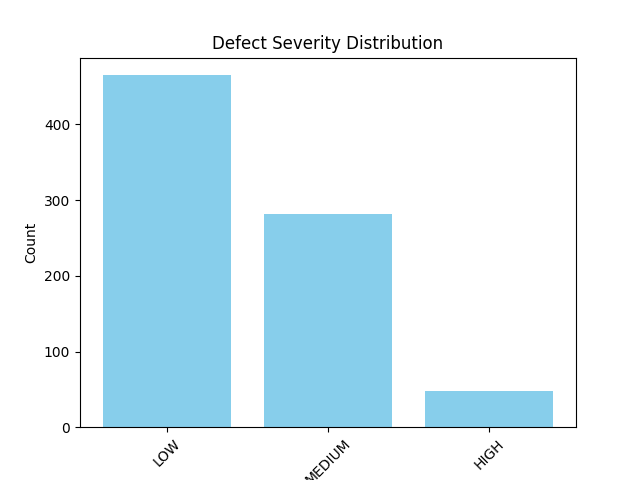
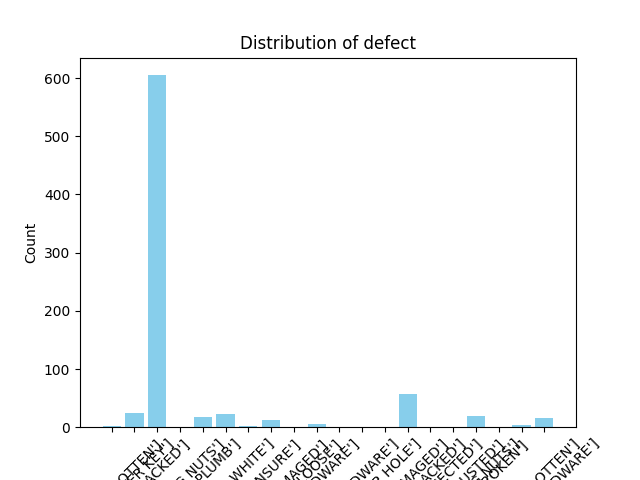
updated

diff --git a/CsvReaderApp/templates/CsvReaderApp/csv_upload.html b/CsvReaderApp/templates/CsvReaderApp/csv_upload.html
@@ -2,15 +2,13 @@
 <html lang="en">
 <head>
     <meta charset="UTF-8">
-    <meta name="viewport" content="width=device-width, initial-scale=1.0">
     <title>Upload CSV File</title>
 </head>
 <body>
-    <h2>Upload CSV File</h2>
-    <form method="POST" enctype="multipart/form-data">
+    <form action="{% url 'upload_file' %}" method="post" enctype="multipart/form-data">
         {% csrf_token %}
-        <input type="file" name="csv_file">
-        <button type="submit">Upload</button>
+        <input type="file" name="csv_file" required>
+        <button type="submit">Upload File</button>
     </form>
 </body>
 </html>

diff --git a/CsvReaderApp/templates/CsvReaderApp/column_select.html b/CsvReaderApp/templates/CsvReaderApp/column_select.html
@@ -8,6 +8,7 @@
     <form action="{% url 'generate_charts' %}" method="post">
         {% csrf_token %}
         <input type="hidden" name="file_name" value="{{ file_name }}">
+        <h1>Select a column to analyze:</h1>
         {% for column in columns %}
             <label>
                 <input type="radio" name="selected_column" value="{{ column }}" required>

diff --git a/CsvReaderApp/views.py b/CsvReaderApp/views.py
@@ -2,52 +2,84 @@ import csv
 import os
 import matplotlib.pyplot as plt
 from collections import Counter
-from django.shortcuts import render
+from django.shortcuts import render, redirect
 from django.conf import settings
+from django.urls import reverse
 import matplotlib
 matplotlib.use('Agg')
+from django.http import HttpResponse
 
-def generate_charts(request):
-    if request.method == 'POST' and request.FILES['csv_file']:
+def upload_file(request):
+    if request.method == 'POST' and 'csv_file' in request.FILES:
         uploaded_file = request.FILES['csv_file']
         file_path = os.path.join(settings.MEDIA_ROOT, uploaded_file.name)
-        with open(file_path, 'wb+') as destination:
-            for chunk in uploaded_file.chunks():
-                destination.write(chunk)
-
-        defect_counts = read_csv_and_process(file_path)
-        bar_chart_url = generate_bar_chart(defect_counts, 'bar_chart.png')
-
-        context = {'bar_chart_url': bar_chart_url}
-        return render(request, 'CsvReaderApp/csv_data.html', context)
+        try:
+            with open(file_path, 'wb+') as destination:
+                for chunk in uploaded_file.chunks():
+                    destination.write(chunk)
+            
+            # Check if the file was saved successfully by verifying its existence
+            if os.path.exists(file_path):
+                # Redirect to column selection with the filename as a parameter
+                return redirect(reverse('select_column') + f'?file={uploaded_file.name}')
+            else:
+                return HttpResponse("Failed to save the file.", status=500)
+        except IOError as e:
+            return HttpResponse(f"Error saving file: {e}", status=500)
     else:
         return render(request, 'CsvReaderApp/csv_upload.html')
 
-def read_csv_and_process(file_path):
+def select_column(request):
+    file_name = request.GET.get('file')
+    file_path = os.path.join(settings.MEDIA_ROOT, file_name)
+    columns = get_csv_columns(file_path)
+    return render(request, 'CsvReaderApp/column_select.html', {'columns': columns, 'file_name': file_name})
+
+def get_csv_columns(file_path):
+    with open(file_path, 'r') as file:
+        reader = csv.reader(file)
+        try:
+            columns = next(reader)
+        except StopIteration:
+            columns = []  # Handle empty files
+    return columns
+
+def generate_charts(request):
+    if request.method == 'POST' and 'selected_column' in request.POST:
+        selected_column = request.POST['selected_column']
+        file_name = request.POST['file_name']
+        file_path = os.path.join(settings.MEDIA_ROOT, file_name)
+
+        defect_counts = read_csv_and_process(file_path, selected_column)
+        bar_chart_url = generate_bar_chart(defect_counts, 'bar_chart.png', selected_column)
+
+        return render(request, 'CsvReaderApp/csv_data.html', {'bar_chart_url': bar_chart_url})
+    else:
+        return redirect('upload_file')
+
+def read_csv_and_process(file_path, selected_column):
     defect_counts = Counter()
     with open(file_path, 'r') as file:
         reader = csv.DictReader(file)
         for row in reader:
-            severity = row['severity'].strip().upper()  # Assuming 'severity' is the correct column name
-            if severity in ['LOW', 'MEDIUM', 'HIGH']:  # Filter unwanted values
-                defect_counts[severity] += 1
+            value = row.get(selected_column, '').strip().upper()
+            if value:  # Ensure value is not empty
+                defect_counts[value] += 1
     return defect_counts
 
-def generate_bar_chart(defect_counts, file_name):
-    severity_levels = ['LOW', 'MEDIUM', 'HIGH']
-    severity_counts = {level: defect_counts.get(level, 0) for level in severity_levels}
-    
+def generate_bar_chart(defect_counts, file_name, selected_column):
+    values = list(defect_counts.keys())
+    counts = [defect_counts[value] for value in values]
+
     fig, ax = plt.subplots()
-    ax.bar(severity_levels, [severity_counts[level] for level in severity_levels], color='skyblue')
-    ax.set_xlabel('Severity')
+    ax.bar(values, counts, color='skyblue')
+    ax.set_xlabel('Values')
     ax.set_ylabel('Count')
-    ax.set_title('Defect Severity Distribution')
+    ax.set_title(f'Distribution of {selected_column}')
     ax.tick_params(axis='x', rotation=45)
-    
+
     file_path = os.path.join(settings.MEDIA_ROOT, file_name)
     plt.savefig(file_path, format='png')
     plt.close()
 
     return os.path.join(settings.MEDIA_URL, file_name)
-
-# Note: Ensure that MEDIA_ROOT and MEDIA_URL are properly configured in your settings.py

diff --git a/CsvReaderApp/urls.py b/CsvReaderApp/urls.py
@@ -1,15 +1,14 @@
-# urls.py
-
+from django.urls import path
+from . import views  # Ensure views is imported from your app
 from django.conf import settings
 from django.conf.urls.static import static
-from django.contrib import admin
-from django.urls import path
-from .views import generate_charts
 
 urlpatterns = [
-    
-    path('generate-charts/', generate_charts, name='generate_charts'),
+    path('upload/', views.upload_file, name='upload_file'),
+    path('select-column/', views.select_column, name='select_column'),
+    path('generate-charts/', views.generate_charts, name='generate_charts'),
 ]
+
 
 if settings.DEBUG:
     urlpatterns += static(settings.MEDIA_URL, document_root=settings.MEDIA_ROOT)
